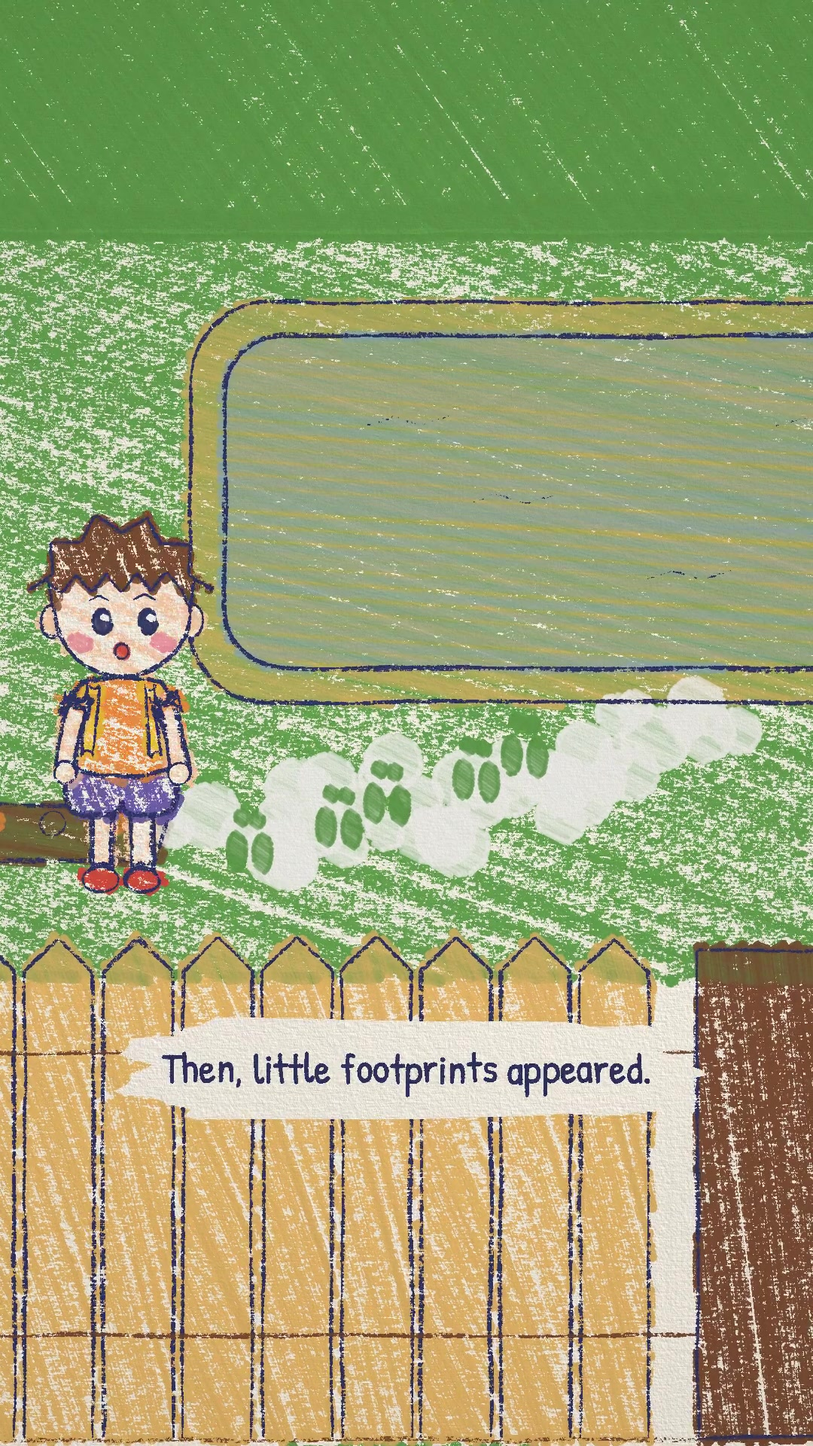
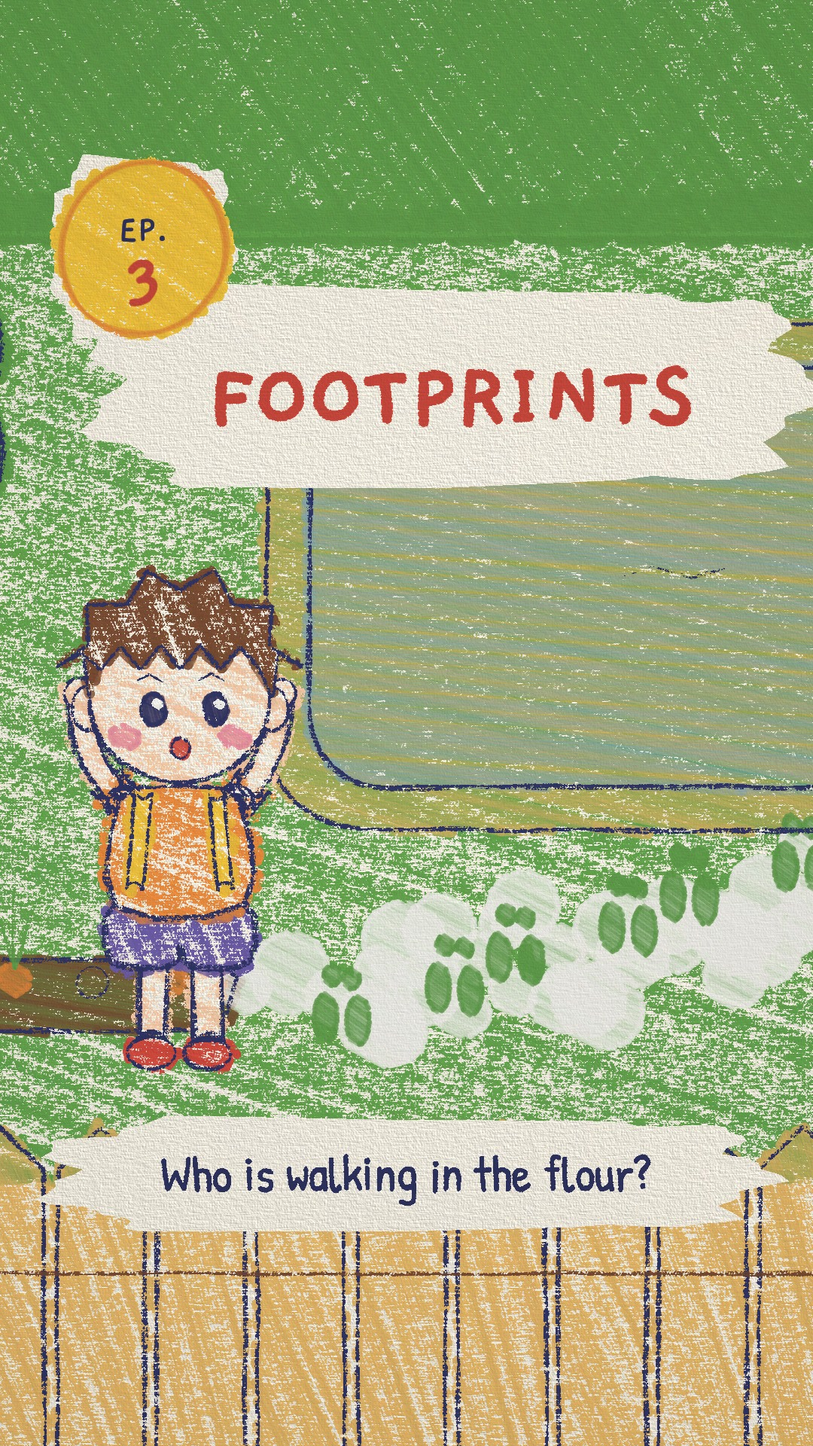
Add Reel covers for episodes 1-3 and a cover step to the series routine
Claude-Session: https://claude.ai/code/session_01T9kzsKpr6HhmHqsPECFeBX

diff --git a/leo-series/engine/covers.js b/leo-series/engine/covers.js
@@ -1,0 +1,63 @@
+// Reel covers, 1080×1920: ?cover=1|2|3 …  Big Leo, a huge hand-lettered title, an episode badge and a question.
+// Everything that matters sits in the centre 3:4 (y 240–1680), the part Instagram shows in the profile grid.
+import { line, fill, text, handCircle, ellipse, CAM } from './crayon.js';
+import { leo, rabbit, duck, jacketShape } from './kids.js';
+import { drawStreet, drawFence, drawGarden, drawHollow, washHollow } from './world.js';
+import { burrow, vegPatch, flour, pawPrint, carrot, burrowPoly, HOPS, VEG } from './props.js';
+import { L, K, begin, composite, patch } from './common.js';
+import { sx, sy } from './crayon.js';
+
+const ALL = { verge: 1, path: 1, sign: 1, hedge: 1, hedgeL: 1, fence: 1, fenceF: 1, lawn: 1, lawnL: 1, sun: 1, tree: 1, treeL: 1, parasol: 1, pool: 1, poolL: 1 };
+const C = {
+  1: { cam: [1520, 1240, 2.25], title: ['THE INVISIBLE', 'JACKET'], hook: 'What was hiding in the hedge?' },
+  2: { cam: [2370, 845, 2.3], title: ['GONE!'], hook: 'Who took the jacket?' },
+  3: { cam: [2700, 860, 2.15], title: ['FOOTPRINTS'], hook: 'Who is walking in the flour?' },
+};
+
+function scene(n) {
+  if (n === 1) {
+    drawStreet(L.BG.f, L.BG.l, ALL); drawHollow(L.BG.f, L.BG.l, 1); drawFence(L.BG.f, L.BG.l, ALL, 0);
+    washHollow(L.WASH, 10, 0, 1);
+    leo(L.CH, { x: 1470, y: 1500, s: 1.0, pose: 'front:hold', holding: true, expr: 'surprised', seed: 3000 });
+    return true;
+  }
+  drawGarden(L.BG.f, L.BG.l, ALL); burrow(L.BG.f, L.BG.l);
+  if (n === 2) {
+    vegPatch(L.BG.f, L.BG.l, [2]); drawStreet(L.BG.f, L.BG.l, ALL); drawFence(L.BG.f, L.BG.l, ALL, 0);
+    const g = L.WASH.g; g.save(); g.fillStyle = '#000'; g.globalAlpha = 0.9; g.beginPath(); burrowPoly().forEach(([x, y], i) => i ? g.lineTo(sx(x), sy(y)) : g.moveTo(sx(x), sy(y))); g.closePath(); g.fill(); g.restore();
+    leo(L.CH, { x: 2290, y: 1044, s: 0.95, pose: 'front:freeze', expr: 'surprised', look: [1, 0], seed: 3000 });
+    rabbit(L.INV, { x: 2470, y: 1052, s: 1.0, pose: 'sit', seed: 6200 });
+    carrot(L.CH, { x: 2520, y: 972, r: -1.3, bites: 1, s: 1.0, seed: 1300 });
+    [[2480, 930], [2560, 910], [2600, 960]].forEach(([x, y], i) => line(L.FX, [[x, y], [x + 12, y - 22]], { w: 5, col: K.ink, p: 0.8, seed: 40 + i }));
+    return true;
+  }
+  if (n === 3) {
+    vegPatch(L.BG.f, L.BG.l, [2]); flour(L.BG.f, 1); HOPS.forEach(([x, y], i) => pawPrint(L.BG.f, x, y, 1950 + i * 5));
+    drawStreet(L.BG.f, L.BG.l, ALL); drawFence(L.BG.f, L.BG.l, ALL, 0);
+    leo(L.CH, { x: 2560, y: 1068, s: 0.95, pose: 'front:freeze', expr: 'surprised', look: [1, -0.6], seed: 3000 });
+    return false;
+  }
+}
+
+export function cover(comp, n) {
+  const c = C[n] || C[2];
+  begin(c.cam);
+  const wash = scene(n);
+  // episode badge: a yellow crayon disk
+  const bx = 190, by = 330;
+  const toW = ([X, Y]) => [(X - 540) / CAM.s + CAM.x, (Y - 960) / CAM.s + CAM.y];
+  patch(L.TOPK, bx, by, 118, 118);
+  fill(L.TOP, ellipse(bx, by, 110, 110, 40).map(toW), { col: K.yellow, p: 0.95, gap: 8, w: 11, seed: 3, boil: 0, cross: true, crossP: 0.5 });
+  line(L.TOP, handCircle(bx, by, 112, 4).map(toW), { w: 8, col: K.orange, p: 0.95, seed: 5 });
+  text(L.TOP, 'EP.', bx, by - 12, { size: 52, font: 'Gaegu', weight: 700, col: K.ink });
+  text(L.TOP, String(n), bx, by + 66, { size: 96, font: 'Gaegu', weight: 700, col: K.red, stroke: 2 });
+  // the title: huge, on a torn paper label
+  const big = c.title.length > 1 || c.title[0].length > 7 ? 128 : 190;
+  const ty0 = c.title.length > 1 ? 520 : 560;
+  patch(L.TOPK, 600, ty0 - big * 0.35 + (c.title.length - 1) * big * 0.5, 470, 60 + big * 0.55 * c.title.length);
+  c.title.forEach((s, i) => text(L.TOP, s, 600, ty0 + i * big * 1.0, { size: big, font: 'Gaegu', weight: 700, col: i === c.title.length - 1 ? K.red : K.ink, stroke: 3, seed: 20 + i }));
+  // the question
+  patch(L.TOPK, 540, 1560, 470, 74);
+  text(L.TOP, c.hook, 540, 1582, { size: 66, font: 'Patrick Hand', col: K.ink, stroke: 1.5, seed: 30 });
+  composite(comp, { wash, vig: 0.2 });
+}

diff --git a/leo-series/engine/common.js b/leo-series/engine/common.js
@@ -49,7 +49,7 @@ function wrap(str) {
 export function buildSubs(LINES) {
   return LINES.map((Ln, i) => { const t0 = Ln.t - 0.1; let t1 = Math.max(t0 + 1.8, Ln.t + Ln.d + 0.7); const nx = LINES[i + 1]; if (nx) t1 = Math.min(t1, nx.t - 0.2); return { t0, t1, text: Ln.text }; });
 }
-function patch(Lyr, cx, cy, hw, hh) {
+export function patch(Lyr, cx, cy, hw, hh) {
   const g = Lyr.g; g.save(); g.fillStyle = '#000'; g.beginPath();
   for (let i = 0; i <= 60; i++) { const a = i / 60 * Math.PI * 2; const px = Math.cos(a), py = Math.sin(a); const sq = Math.pow(Math.abs(px), 0.3) * Math.sign(px); const n = 1 + 0.06 * Math.sin(a * 7 + 1.3) + 0.03 * Math.sin(a * 17); const X = cx + sq * hw * n, Y = cy + py * hh * n; i ? g.lineTo(X, Y) : g.moveTo(X, Y); }
   g.closePath(); g.fill(); g.restore();

diff --git a/leo-series/engine/main.js b/leo-series/engine/main.js
@@ -5,7 +5,10 @@ const Q = new URLSearchParams(location.search);
 const comp = makeComp(document.getElementById('gl'));
 window.DUR = 1;
 await Promise.all(['400 40px "Patrick Hand"', '700 40px Gaegu', '400 40px Gaegu'].map(f => document.fonts.load(f)));
-if (Q.get('logo')) {
+if (Q.get('cover')) {
+  const Cv = await import('./covers.js');
+  window.render = t => { BOIL.step = 0; Cv.cover(comp, +Q.get('cover')); };
+} else if (Q.get('logo')) {
   const Lg = await import('./logo.js');
   window.render = t => { BOIL.step = 0; Lg.logo(comp, t, Q.get('logo')); };
 } else {

diff --git a/leo-series/SERIES.md b/leo-series/SERIES.md
@@ -23,7 +23,8 @@ films/leo-series/
    - the camera keys, the characters' states, the props that appear;
    - the mood cues: `walk`, `mystery`, `sneak`, `silence`, `crunch`, `theme`, `tutti`, `tbc` (always end on `tbc` + "To be continued…").
 3. **One check**: render about 8 stills (`still.mjs … --range 1:29:4`) and look at one contact sheet. Fix only what's broken.
-4. **Build**: `sh films/leo-series/build_episode.sh NN` (≈ 15–20 min of render time, no extra credits while it runs).
+4. **Cover**: add one line to `engine/covers.js` (camera, title, question, scene) and render it: `node core/render/still.mjs films/leo-series/engine 0 --size 1080x1920 --q 'cover=NN'`. Big Leo with a clear expression, a title of 1–2 words, a question as the hook; keep it all inside y 240–1680 (the profile-grid crop).
+5. **Build**: `sh films/leo-series/build_episode.sh NN` (≈ 15–20 min of render time, no extra credits while it runs).
 
 What keeps the credit cost low: no new characters or engine code per episode; reuse props; one review round; ~30 s length; music and mix are generated from the cues, not written by hand. Add a new prop or pose only when the story really needs it.
 
